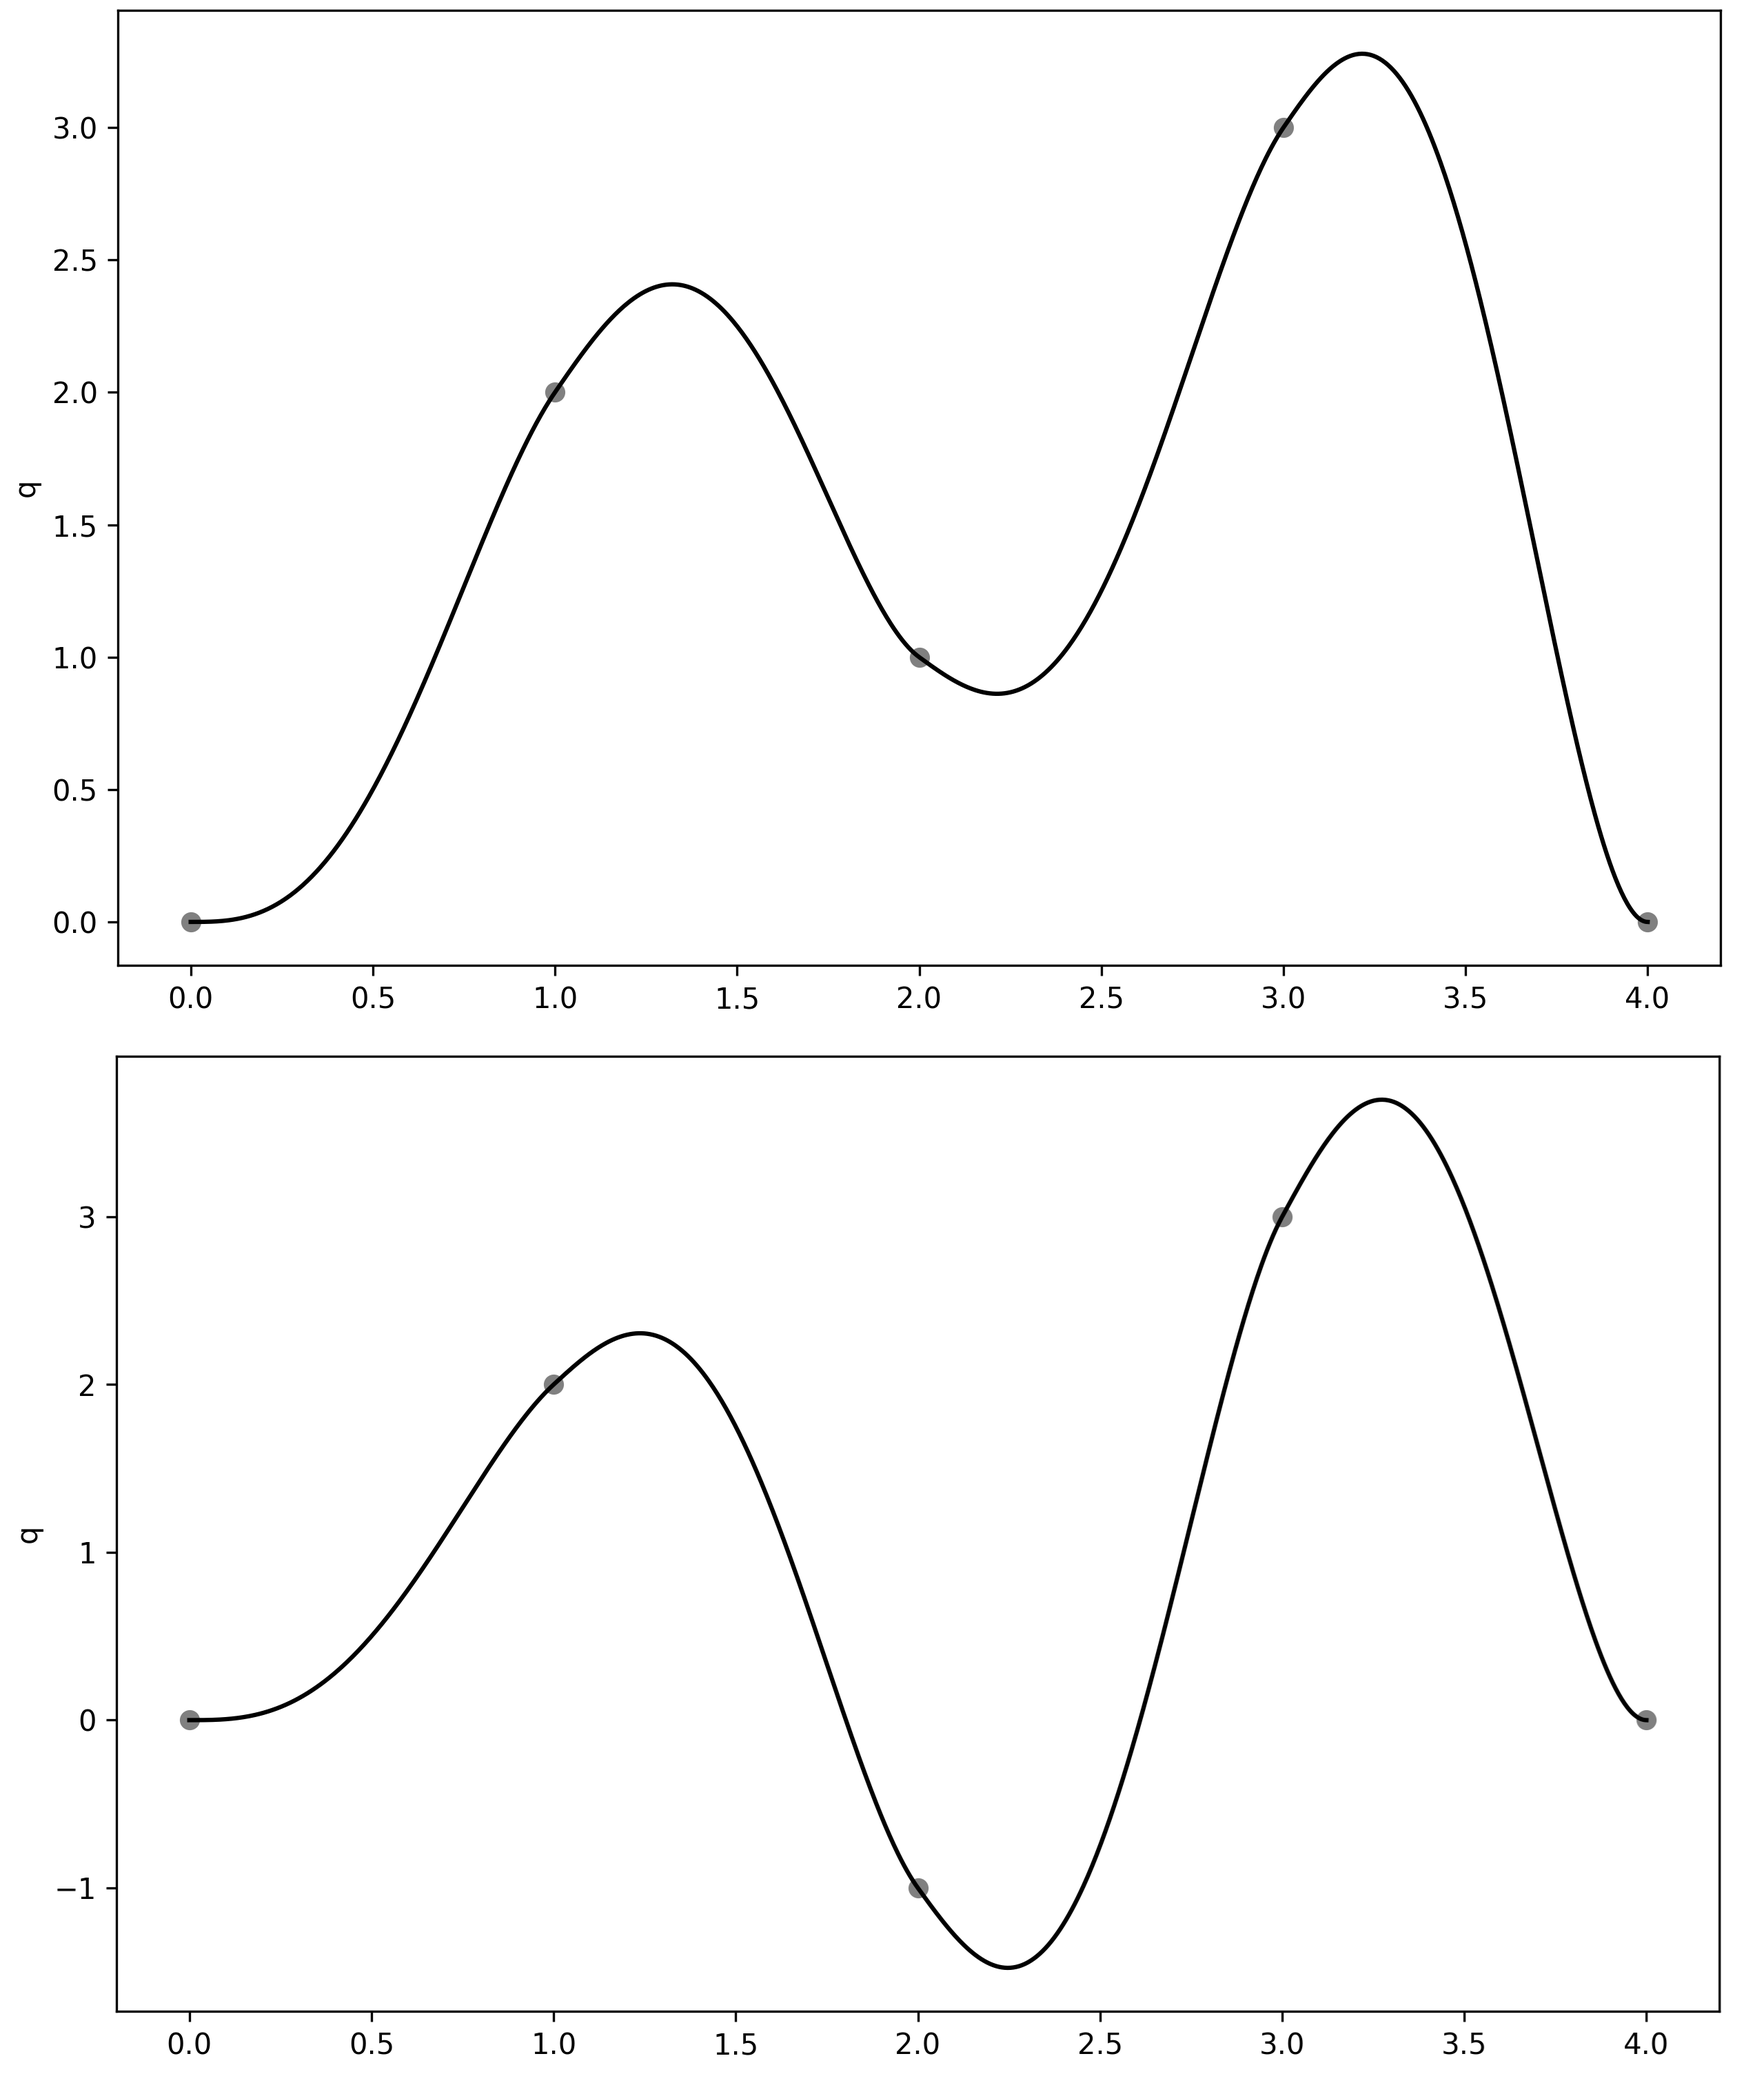
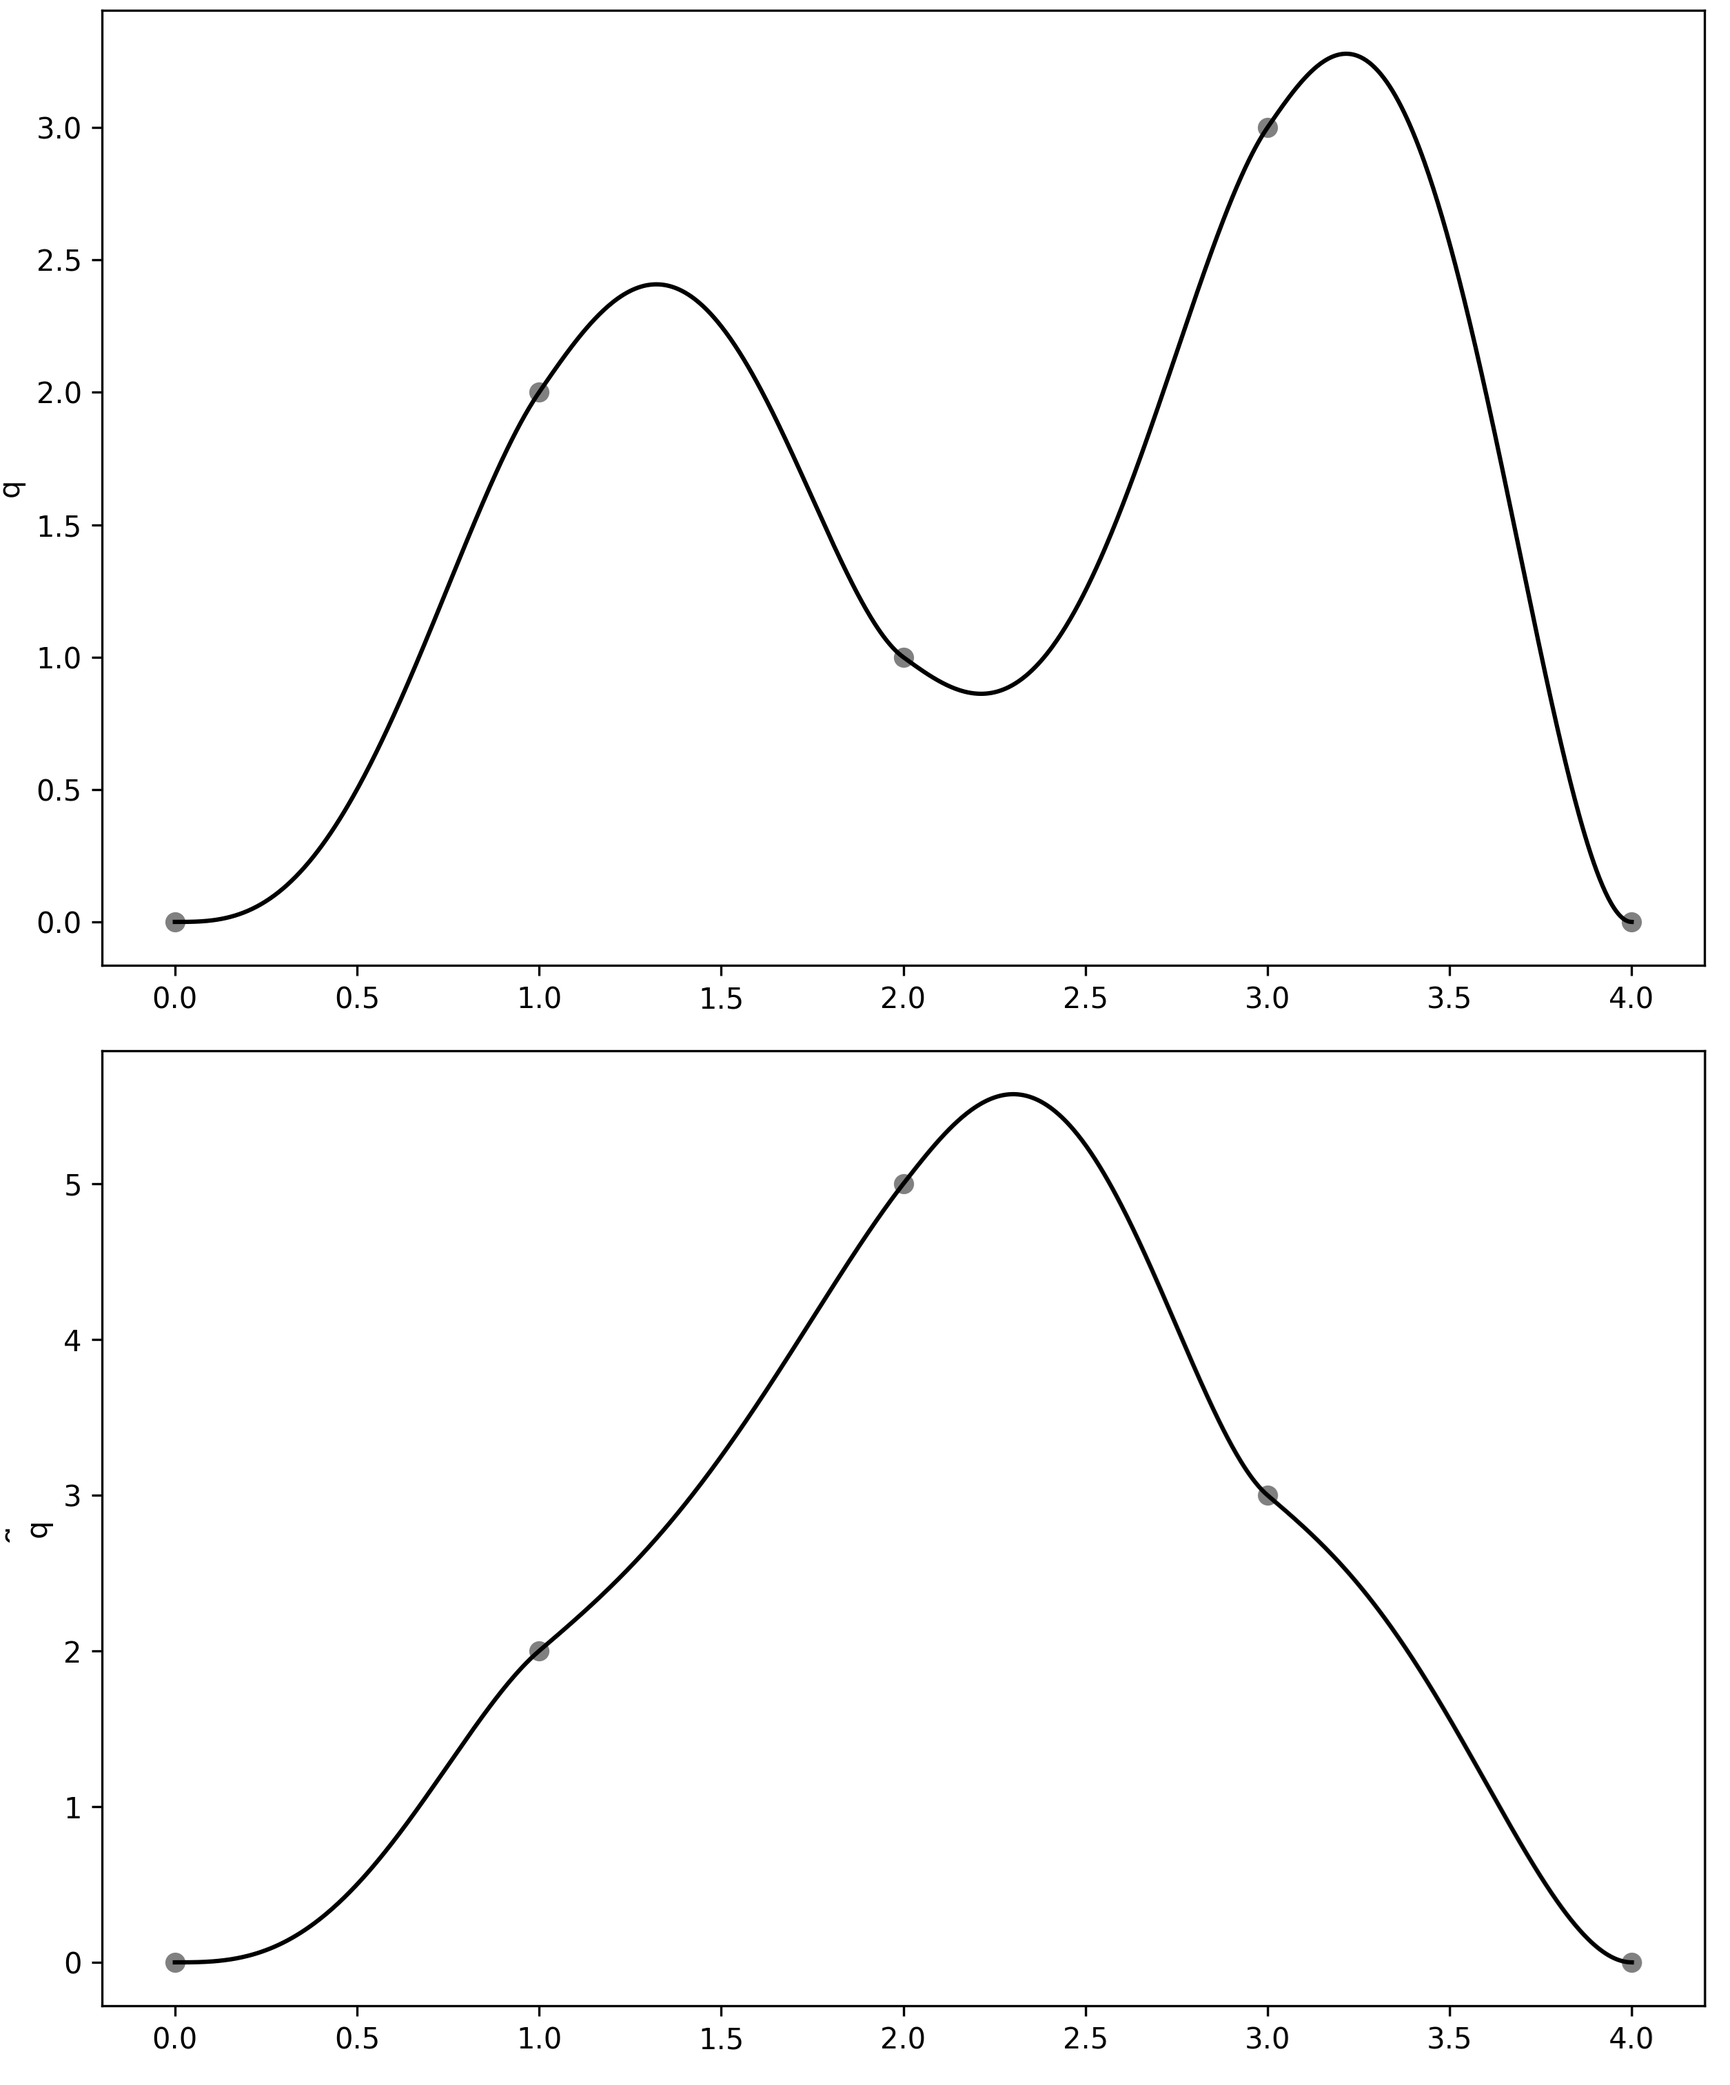
Scelta nuova immagine per rappresentare un esempio di cambio punto per una SPLine434 e come influenza le varie polinomiali per una maggior chiarezza del fenomeno

diff --git a/extra/SPLine434.py b/extra/SPLine434.py
@@ -82,7 +82,7 @@ def plot_spline_434(times, positions, splines, resolution=1000):
 if __name__ == "__main__":
     # Punti noti: istanti di tempo e posizioni verticali
     times = [0, 1, 2, 3, 4]  # Istanti di tempo
-    positions = [0, 2, -1, 3, 0]  # Posizioni verticali
+    positions = [0, 2, 5, 3, 0]  # Posizioni verticali
 
     # Calcolo della SPLine 434
     splines = spline_434(times, positions)
